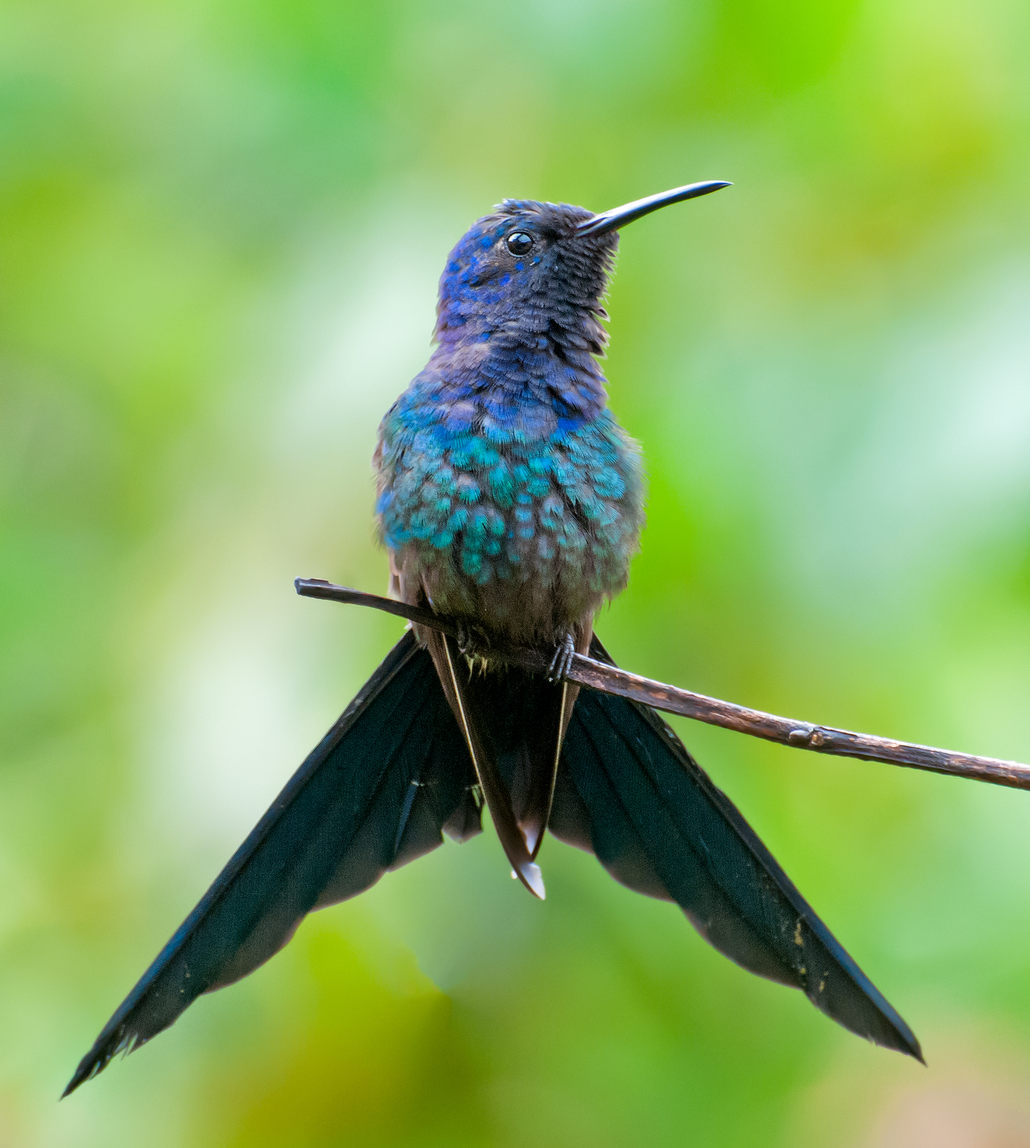
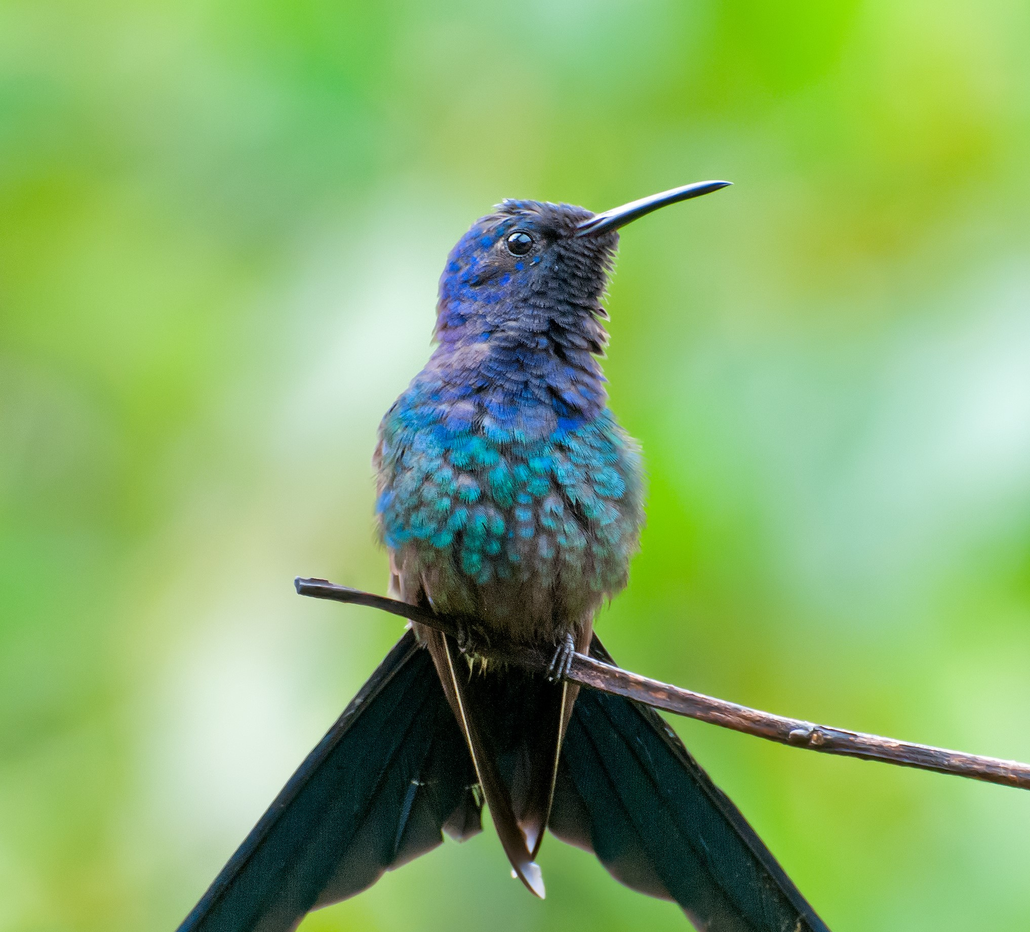
das

diff --git a/estilos/conteudo-especifico-animal.css b/estilos/conteudo-especifico-animal.css
@@ -172,11 +172,16 @@ div.dieta li {
 
 .image-container {
     position: relative;
-    display: inline-block;
+    display: flex; /* Usar flexbox para centralizar */
+    flex-direction: column; /* Colocar os itens em coluna */
+    align-items: center; /* Centralizar horizontalmente */
+    justify-content: center; /* Centralizar verticalmente */
+    margin: 0 auto; /* Centralizar o contêiner na página */
 }
+
 .image-container img {
     max-width: 100%;
-    height: auto;
+    height: 410px;
     border-radius: 15px;
     box-shadow: 0 8px 16px rgba(0, 0, 0, 0.2);
     transition: transform 0.3s ease, box-shadow 0.3s ease;
@@ -184,19 +189,15 @@ div.dieta li {
 }
 
 .image-container .caption {
-    position: absolute;
-    margin: auto;
-
+    position: relative; /* Alterar para relative para que a legenda fique abaixo da imagem */
     width: 90%;
-    top: 15px;
-    left: 0px;
-    right: 0px;
     background: rgba(0, 0, 0, 0.6);
     color: #fff;
     padding: 10px;
     border-radius: 10px;
     font-size: 14px;
     text-align: center;
+    margin-top: 10px; /* Espaçamento entre a imagem e a legenda */
 }
 
 
